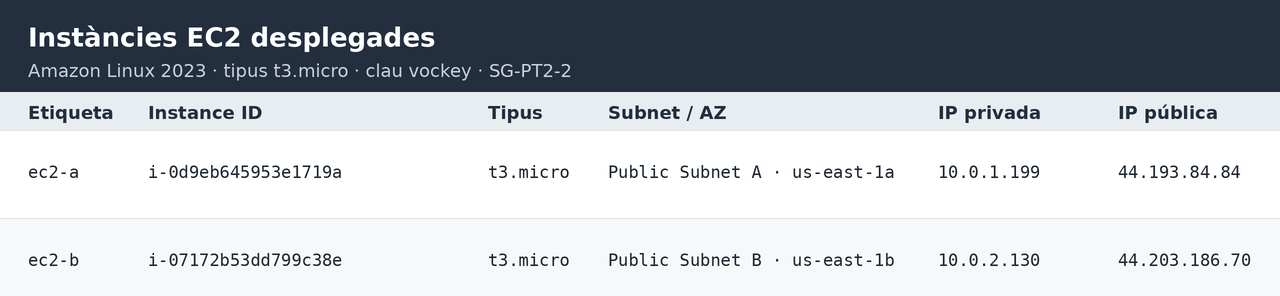
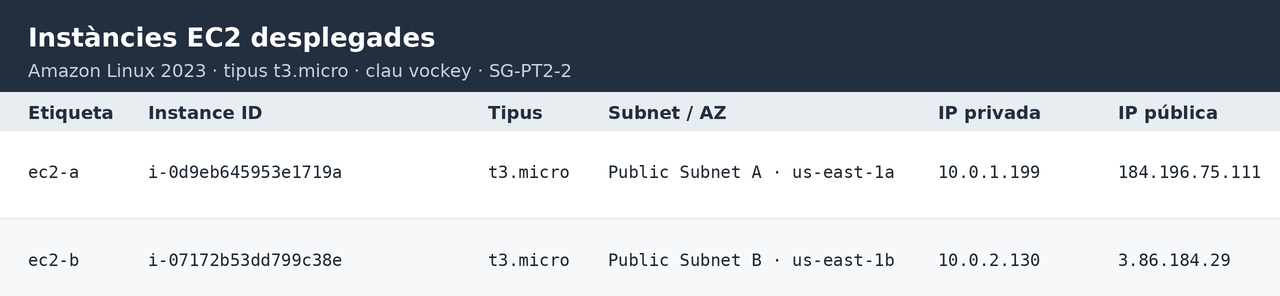
Actualitza Pt2.2 amb probes reals i IPs publiques actuals

Changed region(s): [[0.875, 0.5473, 1.0, 0.6081], [0.875, 0.8514, 1.0, 0.9122]]

diff --git a/pt2-2/README.md b/pt2-2/README.md
@@ -58,8 +58,10 @@ El grup **SG-PT2-2** (`sg-0f20e975d305229fa`) conté exactament les tres regles 
 
 | Etiqueta | Instance ID | Tipus | Subxarxa / AZ | IP privada | IP pública |
 |----------|-------------|-------|---------------|------------|------------|
-| `ec2-a` | `i-0d9eb645953e1719a` | `t3.micro` | Public Subnet A · `us-east-1a` | `10.0.1.199` | `44.193.84.84` |
-| `ec2-b` | `i-07172b53dd799c38e` | `t3.micro` | Public Subnet B · `us-east-1b` | `10.0.2.130` | `44.203.186.70` |
+| `ec2-a` | `i-0d9eb645953e1719a` | `t3.micro` | Public Subnet A · `us-east-1a` | `10.0.1.199` | `184.196.75.111` |
+| `ec2-b` | `i-07172b53dd799c38e` | `t3.micro` | Public Subnet B · `us-east-1b` | `10.0.2.130` | `3.86.184.29` |
+
+> Les IP públiques són dinàmiques al Learner Lab: si s'atura i s'engega la instància, canvien. Les IP privades es mantenen.
 
 ## 5. Desplegament
 
@@ -81,16 +83,28 @@ I es pot comprovar que s'han creat tots els recursos:
 
 ![terraform state list](assets/02-terraform-state-list.png)
 
-## 6. Comprovació del funcionament
+## 6. Comprovació del funcionament (proves reals)
 
-Amb les regles del grup de seguretat configurades, el comportament esperat és:
+Proves executades amb el desplegament real al Learner Lab:
 
 | Prova | Comanda | Resultat |
 |-------|---------|----------|
-| SSH des de fora | `ssh -i vockey.pem ec2-user@44.193.84.84` | ✅ Permès (TCP 22 des de `0.0.0.0/0`) |
-| Ping entre instàncies | `ping -c 4 10.0.2.130` (des de `ec2-a`) | ✅ Permès (origen dins `10.0.0.0/16`) |
-| Sortida a Internet | `ping -c 4 8.8.8.8` | ✅ Permès (egress total + IGW) |
-| Ping des del PC a l'EC2 | `ping 44.203.186.70` | ❌ Bloquejat (ICMP només des de la VPC) |
+| SSH des de fora | `ssh -i vockey.pem ec2-user@184.196.75.111` | ✅ Permès (TCP 22 des de `0.0.0.0/0`) |
+| Ping entre instàncies | `ping -c 4 10.0.2.130` (des de `ec2-a`) | ✅ Permès, 0% pèrdua (origen dins `10.0.0.0/16`) |
+| Sortida a Internet | `ping -c 4 8.8.8.8` (des de `ec2-a`) | ✅ Permès, 0% pèrdua (egress total + IGW) |
+| Ping des del PC a l'EC2 | `ping -c 4 3.86.184.29` (IP pública d'`ec2-b`) | ❌ Bloquejat, 100% pèrdua (ICMP només des de la VPC) |
+
+**SSH a `ec2-a` i ping intern + sortida a Internet:**
+
+![SSH a ec2-a i pings](assets/07-ssh-ec2a-ping.png)
+
+**SSH des de fora a `ec2-b` (permès):**
+
+![SSH a ec2-b](assets/08-ssh-ec2b.png)
+
+**Ping des de fora a la IP pública d'`ec2-b` (bloquejat pel Security Group):**
+
+![Ping extern bloquejat](assets/09-ping-extern-bloquejat.png)
 
 La clau privada `vockey.pem` es pot obtenir des del Learner Lab d'AWS Academy i s'utilitza amb l'usuari `ec2-user` d'Amazon Linux.
 

diff --git a/README.md b/README.md
@@ -44,7 +44,10 @@ practiquescloud/
     │   ├── 03-terraform-output.png
     │   ├── 04-security-group.png
     │   ├── 05-xarxa.png
-    │   └── 06-instancies-ec2.png
+    │   ├── 06-instancies-ec2.png
+    │   ├── 07-ssh-ec2a-ping.png
+    │   ├── 08-ssh-ec2b.png
+    │   └── 09-ping-extern-bloquejat.png
     ├── README.md
     └── main.tf
 ```
